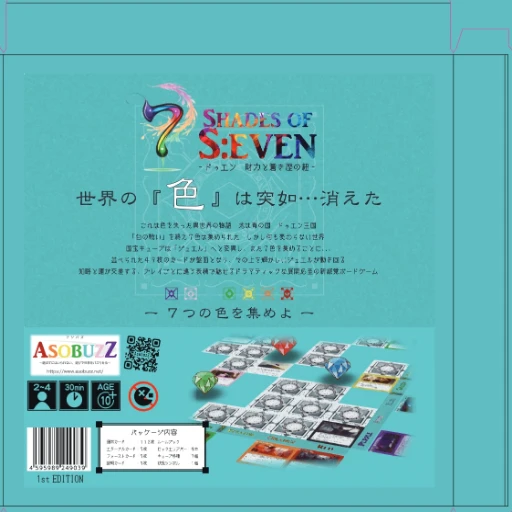
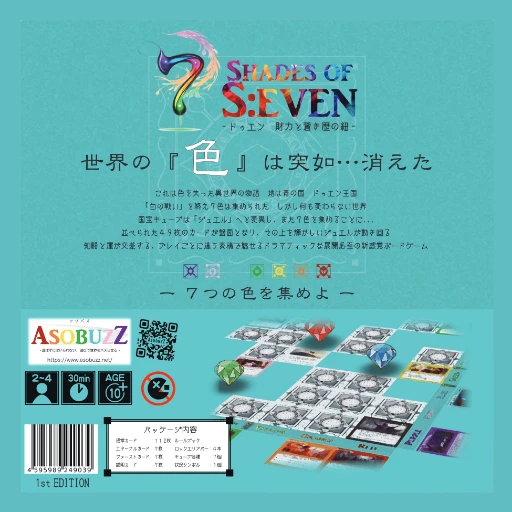
debug 2件（旧1stの箱裏の切り出し／CPU戦の設定を1画面に）（続き848）
#823 旧1stの箱裏が少しおかしい:
- 展開図から切り出す位置が**1つ外側**だった（面の枠＝型抜き線ごと切っていた）
  ⇒ 裏の絵のまわりに線と折り返しの白地が写り込み、中身も片寄っていた
- 🔴 目で読まずに**測った**: 行／列ごとに「地と違う画素」を数えると線の位置が出る
  身（裏）= x 813..2786 / y 816..2783（3600px の描画。正方形・中心 1799.5）
  4辺とも対称に出たので、読み違えていないことがその場で分かる
- 蓋と側面も同じ作法でそろえた（側面には折り返しの形が写っていた）
- 1st の面は「まぜる」の箱の材料でもあるので make-mixed-box.mjs を走らせ直した

#824 スクロールせずに選べるといいです（上から順に並べる必要はないのでは？）:
- .home-match-choice-details を grid の auto-fit（minmax 34rem）に
  🔴 画面の向きや端末では分けない。**札の中身の幅だけ**で決まる
     ⇒ 縮む端末でだけ2列になり、PC は1列のままで1pxも変わらない
  🔴 :not([hidden]) を必ず付ける（display:grid は [hidden] の display:none を打ち消す）
- ⚠ 段組み（column-width）は試してやめた。段の高さを均すので背の高い組があると
  かえって高くなる（実測: grid 0px に対して段組みは 62px はみ出した）
- 管理者の5組では3段になって 169px はみ出したので:
  「はじめる」と「戻る」を横に並べ（左右は CSS の order ＝ #746 の決まり。DOM と PC は不変）、
  すき間だけを詰めた（押す物の大きさ＝#822 で決めた値は触っていない）
  ⇒ 4組 401→317px・5組も 0px
- 🔴 撮って1つ見つけた: 「はじめる」が左に寄っていた（続き847 で書いた
  margin-left/right:auto を、同じ規則の後ろの margin: 一括指定が 0 に戻していた＝教訓9）

実測 scratchpad/_p848.mjs 22項目（NG 0・例外0・404 0）・対照5本つき。
回帰 _p847.mjs 17項目とも通る。npm run check 27本とも合格。
SQL・Edge Function の変更は無い＝再デプロイ不要。

diff --git a/src/changelog.js b/src/changelog.js
@@ -54,6 +54,7 @@ export const CHANGELOG = [
   {
     date: "2026-11-25",
     summary: [
+      "CPU戦の設定が、巻き取らずに1画面で選べるようになりました",
       "CPU戦の設定が、指で押しやすい大きさになりました",
       "エディションを選ぶ画面に、0th拡張と志炎者の絵が付きました",
       "エディションの箱が、左右のスワイプで指に付いてくるようになりました",
@@ -61,6 +62,7 @@ export const CHANGELOG = [
       "燃える演出のふちが、いびつな炎の形に戻りました",
     ],
     summaryEn: [
+      "The CPU match settings now fit on one screen without scrolling",
       "The CPU match settings are now comfortable to tap",
       "The edition chooser gained artwork for the 0th expansion and Shienja",
       "The edition chooser now follows your finger as you swipe",
@@ -68,6 +70,7 @@ export const CHANGELOG = [
       "The burning edge is ragged again, not a clean circle",
     ],
     items: [
+      "**CPU戦の設定が、巻き取らずに1画面で収まるようになりました。** 横長の端末では、強さ・人数・対戦ルール・山札が縦1列に積まれて画面に入り切らず、左右が大きく空いていました。いまは**横にも並べて**、「はじめる」と「戻る」も横に並べています。縦長の画面や PC では今までどおりです。",
       "**CPU戦の設定を、指で押せる大きさにしました。** 強さ・人数・対戦ルール・山札のボタンは**実画面で16px**しかなく（字は7px）、押し間違えやすい大きさでした。いまは**41〜53px**です。「はじめる」も、横いっぱいの平らな帯だったのを**幅を絞って浮かせた形**にしました（飾りの帯に見えていました）。",
       "**エディションを選ぶ画面に絵が増えました。** 「0th拡張」は箱が無い版なので**ブースターパックを3つ重ねた姿**に、「リメイク＋志炎者」は**リメイクの箱のまわりに志炎者の札**を広げた姿にしました。",
       "**エディションを選ぶ画面が、左右のスワイプで指に付いてくるようになりました。** それまでは払い終わった所で一気に次の箱へ飛んでいました。離すといちばん近い箱へ寄ります。",
@@ -75,6 +78,7 @@ export const CHANGELOG = [
       "HUERISE の画面から燃えて始まる時、ふちが**いびつな炎の形**になりました。端末によっては**きれいな円**で燃え広がっていて、紙が焼け落ちる感じが出ていませんでした。",
     ],
     itemsEn: [
+      "The CPU match settings now fit on one screen. On a wide, short screen the groups were stacked in a single column that overflowed, while the sides sat empty; they now sit side by side, and the start and back buttons share a row. Tall screens and desktops are unchanged.",
       "The CPU match settings are now comfortable to tap. The difficulty, player count, rule and deck buttons were only 16 real pixels tall with 7px text; they are now 41 to 53. The start button was a flat full-width band that read as decoration, and is now a narrower raised button.",
       "The edition chooser gained artwork: the 0th expansion, which was never sold in a box, now shows three booster packs stacked, and the remake-plus-Shienja set shows the remake box with its cards fanned around it.",
       "The edition chooser now follows your finger as you swipe, instead of jumping to the next box when you let go. It settles on the nearest box when you release.",
@@ -82,14 +86,25 @@ export const CHANGELOG = [
       "The burn that starts the game now has a ragged, flame-like edge on every device. On some phones it spread as a clean circle, which lost the feeling of paper burning away.",
     ],
     fixes: [
+      "1st EDITION の箱の裏に、印刷の型抜き線が写り込んでいたのを直しました。",
+      "CPU戦の設定の「はじめる」が左に寄っていたのを、真ん中に戻しました。",
       "食べすぎで隣のマスのカードを足元へ重ねる時、重なっているマスからは**1番上の1枚だけ**を取るようにしました。",
       "パックを開ける画面のいちばん上に出ていた、管理者向けの小さな文字を下へ移しました。",
     ],
     fixesEn: [
+      "The back of the 1st EDITION box no longer shows the printing die lines.",
+      "The start button in the CPU match settings is centred again.",
       "Overeating now takes only the top card from a stacked neighbouring cell.",
       "The small administrator-only diagnostic line on the pack screen moved to the bottom.",
     ],
     devItems: [
+      "🔴 #823「旧1stの箱裏が少しおかしいです！」。**展開図の切り出し位置が1つ外側だった**——面の枠（型抜き線）ごと切っていたので、裏の絵のまわりに線と折り返しの白地が写り込み、中身も片寄っていた。⇒ **入稿の .ai を描き直してから、線の位置を機械で測った**（行／列ごとに『地と違う画素』を数える）。身（底）の面は 3600px の描画で x 813..2786 / y 816..2783 ＝ちょうど正方形で、中心は 1799.5。そこから少し内側で切り直した。蓋と側面も同じ作法でそろえた（側面には折り返しの形が写っていた）。",
+      "⚠ **目で読まない**（続き766 の教訓）。線の位置は4辺とも対称に出たので、読み違えていないことがその場で分かる。⚠ 1st の面は「まぜる」の箱の材料でもあるので、`tools/make-mixed-box.mjs` を走らせ直した。",
+      "🔴 #824「スクロールせずに選べるといいです！**上から順に並べる必要はないのでは？左右に余白あるので！**」。設定の4〜5組が縦1列に積まれて入り切らず、左右は空いていた。⇒ `.home-match-choice-details` を **grid の auto-fit**（minmax 34rem）にした。札の幅は倍率で割ってあるので（#741・続き806）、**縮む端末ほど rem で見た中身が広くなり、そこでだけ2列になる**＝PC（46rem）は1列のままで1pxも変わらない。",
+      "🔴 `:not([hidden])` を必ず付ける——`display: grid` は `[hidden]` の `display: none` を**打ち消す**ので、付けないと2択の画面で畳んでいるはずの設定が出てしまう。実測でも両方向を見ている。",
+      "⚠ **段組み（column-width）は試して、やめた。** ブラウザは「段の高さがそろう」ように振り分けるので、背の高い組（対戦ルール）が1段に偏ると全体が高くなる（実測: grid 0px に対して段組みは 62px はみ出した）。行ごとに高さが決まる grid の方が、この中身では低く収まる。",
+      "⚠ それでも**管理者の5組**では3段になって 169px はみ出した。⇒ ①「はじめる」と「戻る」を**横に並べて1段ぶん縮める**（#746 の決まりどおり、左右は CSS の `order` で決める。DOM は今までどおりなので PC は縦のまま）②組の間・見出しの下・札の内側の余白を詰める。**詰めたのはすき間だけで、押す物の大きさ（#822 で決めた値）は触っていない。** 結果 4組 401→317px・5組も 0px。",
+      "🔴 撮って1つ見つけた: 「はじめる」が**左に寄っていた**。続き847 で幅を絞った時に `margin-left/right: auto` を書いたが、**同じ規則の後ろに在る `margin:` の一括指定が 0 に戻していた**（教訓9 そのもの）。数字では落ちない——幅も高さも影も合っていた。",
       "🔴 #813「HUERISEから燃える時、綺麗な円で燃えてっちゃいます。歪な炎な感じがないです」。正体は、いびつなふちを **feTurbulence + feDisplacementMap だけ**が作っていたこと——続き800 で入れた「遅い端末では乱流をあきらめる保険」が働くと、ふちが真円に戻る（当時のコメントにも「＝ふちは真円になるが、カクカクするよりはよい」と書いてあった）。⇒ **穴そのものを、はじめからギザギザの形（72点の path）で持つ**ようにした。フィルタが外れても形は残り、生きている時はその上にさらに細かい乱れが乗る。",
       "⚠ 形は**毎回同じ**（乱数を使わない）。うねりの周期を4つ重ねてあるので不自然にはならず、実測で同じ絵を出せる。振れ幅は割合なので、穴が大きくなるほどギザギザも大きくなる＝紙の燃え方と同じ。",
       "🔴 #811「箱の天地の表示がおかしいです」。側面の絵は **64x512 の縦長**、箱の天地の面は **横長**。コメントには「90度ねじって敷く」と書いてあったのに、**ねじる処理が無かった**（background-size と repeat-x を当てていただけ）⇒ 縦長の絵の**上の一片だけ**が横に繰り返され、箱の天地に知らない模様が並んでいた。CSS は背景画像を回せないので、**90度回した子**を1枚置く形にした。",
@@ -109,6 +124,13 @@ export const CHANGELOG = [
       "⚠ 実測14項目。触る端末では乱流を掛けない／**対照: PC では掛ける**／穴は72点のまま／ホームで覆いが立つ／**対照: 対局の画面では覆われない**（今までどおり作り直す）。⚠ 測り方を2つ間違えた: ①ヘッドレスは遅いので700ms待つと PC でも「遅い端末の保険」が働いて乱流が外れる（掛けた直後に読む）②`querySelector(\"g\")` は最初の <g> であって乱流を掛けた物とは限らない。",
     ],
     devItemsEn: [
+      "The 1st EDITION box back was cropped one boundary too far out, so the die lines and the white fold area around the printed panel came with it and the artwork sat off-centre. The source artwork was re-rendered and the line positions were measured rather than eyeballed, by counting pixels that differ from the background in each row and column. The printed panel is x 813 to 2786 and y 816 to 2783 in a 3600px render, exactly square and centred at 1799.5.",
+      "All four edges came out symmetric, which is itself evidence the reading is right. The lid and side were re-cut the same way; the side had a fold shape baked into it. The 1st faces are also the material for the mixed box, so that was re-baked too.",
+      "The CPU settings groups were stacked in one column that overflowed while the sides sat empty. The details block is now an auto-fit grid with a 34rem minimum, so the number of columns follows the panel content width alone. Because the panel width is divided by the stage scale, a scaled-down phone ends up wider in rem terms and gets two columns, while the desktop panel stays at one and does not change by a pixel.",
+      "The rule must be written with :not([hidden]), because display: grid overrides the display: none that [hidden] provides; without it the collapsed settings would appear in the two-choice dialog. Both directions are measured.",
+      "Multi-column layout was tried and rejected: the browser balances column heights, so a tall group landing in one column makes the whole block taller. Measured, the grid overflowed by 0px where columns overflowed by 62px.",
+      "With an administrator five groups appear, which became three rows and overflowed by 169px. The start and back buttons now share a row, with left-right order decided by a single CSS order rule so the DOM and the desktop stacking are untouched, and the gaps between groups and around the panel were tightened. Only gaps were reduced; the tap-target sizes are unchanged. Four groups went from 401 to 317px and five now fit.",
+      "A screenshot caught one more thing: the start button had drifted left, because a margin shorthand later in the same rule reset the auto side margins written for centring. No number caught it; the width, height and shadow were all correct.",
       "The ragged burn edge was produced only by the turbulence filter, which a slow-device safeguard removes, leaving a perfect circle. The hole itself is now a 72-point jagged path, so the shape survives without the filter and the filter only adds finer detail on top.",
       "The shape is deterministic rather than random, so the same picture can be measured, and its wobble is proportional, so it grows with the hole.",
       "The box top and bottom faces showed a strip of artwork repeated sideways. The side artwork is a tall strip and the comment said it was rotated a quarter turn for those faces, but no rotation was ever applied. A rotated child element now carries it.",

diff --git a/src/style.css b/src/style.css
@@ -17587,6 +17587,27 @@ body.is-phone-device .home-screen-cf-cta { font-size: 0.72rem; }
   border-color: rgba(var(--so7-accent), 0.7);
   color: #06202e;
 }
+/* 🔴【#824・続き848】報告「スクロールせずに選べるといいです！**上から順に並べる必要はないのでは？
+   左右に余白あるので！**」。横長の端末（932x430）では、設定の4〜5組が縦1列に積まれて
+   **画面に入り切らず巻き取りが要った**のに、左右は空いていた。
+   ⇒ **組を横にも並べる。** 画面の向きや端末では分けず、**札の中身の幅だけ**で決める
+     （`auto-fit` が入る数を決める）。
+   ⚠ 札の幅は倍率で割ってあるので（#741・続き806）、縮む端末ほど **rem で見た中身が広くなる**
+     ＝そこでだけ2列になり、**PC（46rem）では1列のまま＝今までと1pxも変わらない**。
+   🔴 `:not([hidden])` を必ず付ける。`display: grid` は `[hidden]` の `display: none` を
+     **打ち消してしまう**ので、付けないと**2択の画面で畳んでいるはずの設定が出てしまう**。
+   ⚠ 行の間は各組の `margin-top` が受け持つので、すき間は**列だけ**に入れる。 */
+.home-match-choice-details:not([hidden]) {
+  /* ⚠ **段組み（column-width）は試して、やめた。** ブラウザは「段の高さがそろう」ように
+     振り分けるので、背の高い組（対戦ルール）が1段に偏ると**全体が高くなる**
+     （実測: grid 0px に対して段組みは 62px はみ出した）。行ごとに高さが決まる grid の方が、
+     この中身では低く収まる。 */
+  display: grid;
+  grid-template-columns: repeat(auto-fit, minmax(34rem, 1fr));
+  gap: 0 2rem;
+  align-items: start;
+}
+
 /* ライトテーマ */
 body.theme-light #home-match-choice {
   background: rgba(60, 51, 38, 0.5);
@@ -26516,13 +26537,14 @@ body.theme-light #card-pack-back {
 .home-match-choice-start {
   display: block;
   width: min(100%, 22rem);
-  margin-left: auto;
-  margin-right: auto;
   box-sizing: border-box;
   /* 🔴【続き720・ユーザー指摘「はじめる と その上のエディション選択が近すぎない？？ｗ」】
      ⇒ 上に間を空ける（設定の列と「始める」は別の種類のものなので、くっついていると
-       設定の一部に見える）。下の ::before の細い罫と対で効く。 */
-  margin: 1.6rem 0 0.6rem;
+       設定の一部に見える）。下の ::before の細い罫と対で効く。
+     🔴【続き848】**左右は `auto`（＝中央）**。続き847 で幅を絞った時に
+     `margin-left/right: auto` を書いたが、**この一括指定が後ろに在って 0 に戻していた**
+     ので、ボタンだけ左に寄っていた（撮って分かった＝教訓9 そのもの）。 */
+  margin: 1.6rem auto 0.6rem;
   padding: 0.85rem 1.1rem;
   border: 1px solid rgba(233, 199, 122, 0.95);
   border-radius: 999px;
@@ -26554,6 +26576,51 @@ body.theme-light #card-pack-back {
    そのぶん小さくなる（#453・#569・#721・#760 と同じ家族）。
    ⚠ 枠は元から `overflow-y: auto` なので、大きくして入り切らなくなっても巻き取れる。
    ⚠ 横に並ぶ列は**折り返せる**ようにする（「自分にも持ち時間」のような長い札が在るため）。 */
+/* 🔴【#824・続き848】指で押す大きさにしたぶん、組が縦に積まれると入り切らない
+   （管理者には**エディションを足して5組**出る）。⇒ **札の幅の上限（46rem）を外す**。
+   横長の端末では左右が大きく空いていたので、そこを使えば3列に並んで2段で収まる。
+   ⚠ 外すのは上限だけ——`94vw` と `100% - 2rem` の歯止めはそのまま（画面からはみ出さない）。
+   ⚠ 縦長の端末では `94vw` の方が小さくなるので、今までどおり1列に落ちる（auto-fit が決める）。 */
+body.is-phone-device .home-match-choice-panel,
+body.is-tablet-device .home-match-choice-panel {
+  width: min(calc(94vw / var(--stage-scale, 1)), calc(100% - 2rem));
+}
+/* 🔴 余白も詰める。指で押す大きさにしたぶん、1.4rem の間が段ごとに積もると効く。
+   ⚠ 詰めるのは**すき間だけ**（押す物の大きさは #822 で決めた値のまま触らない）。 */
+body.is-phone-device .home-match-choice-panel,
+body.is-tablet-device .home-match-choice-panel {
+  padding: 1.4rem 1.6rem 1.2rem;
+}
+body.is-phone-device .home-match-choice-title,
+body.is-tablet-device .home-match-choice-title {
+  margin-bottom: 0.6rem;
+}
+body.is-phone-device .home-match-choice-details:not([hidden]) > .home-match-choice-difficulty,
+body.is-tablet-device .home-match-choice-details:not([hidden]) > .home-match-choice-difficulty {
+  margin-top: 0.7rem;
+}
+/* 🔴 「はじめる」と「戻る」を**横に並べて1段ぶん縮める**。
+   ⚠ 左右は #746 の決まり（やめる側が左・進む側が右）。DOM は はじめる → 戻る のままで、
+     `order` で入れ替える（並べ替えを DOM でやると、片方しか出ない形で取りこぼす）。
+   ⚠ PC では箱がただの入れ物のまま＝今までどおり縦に積まれる。 */
+body.is-phone-device .home-match-choice-foot,
+body.is-tablet-device .home-match-choice-foot {
+  display: flex;
+  align-items: center;
+  justify-content: center;
+  gap: 1.6rem;
+  margin-top: 1.2rem;
+}
+body.is-phone-device .home-match-choice-foot .home-match-choice-cancel,
+body.is-tablet-device .home-match-choice-foot .home-match-choice-cancel {
+  order: -1;
+  margin-top: 0;
+}
+body.is-phone-device .home-match-choice-foot .home-match-choice-start,
+body.is-tablet-device .home-match-choice-foot .home-match-choice-start {
+  margin: 0;
+  width: min(100%, 26rem);
+}
 body.is-phone-device .home-match-choice-segment,
 body.is-tablet-device .home-match-choice-segment {
   flex-wrap: wrap;

diff --git a/src/home-screen.js b/src/home-screen.js
@@ -743,6 +743,14 @@ function openMatchChoiceModal(opts = {}) {
   cancel.addEventListener("click", closeMatchChoiceModal);
   panel.appendChild(details);
   refreshDetailsToggle(); // 文言と「設定を変えています」の1行を、開く前に一度そろえる
+  // 🔴【#824・続き848】「はじめる」と「戻る」を1つの箱に入れる。
+  //   PC では今までどおり縦に積まれる（箱はただの入れ物）が、**横長の端末では
+  //   横に並べて1段ぶん縮める**（style.css の `.home-match-choice-foot`）。
+  //   ⚠ DOM の順は**今までどおり はじめる → 戻る**（縦に積まれる PC の見え方を変えない）。
+  //     横に並べた時の左右（#746: やめる側が左・進む側が右）は **CSS の `order` 1か所**で
+  //     決める——並べ替えを DOM でやると、片方が出ない形（2択の画面）で取りこぼす。
+  const foot = document.createElement("div");
+  foot.className = "home-match-choice-foot";
   // 【#647 の直し】CPU だけの形では、ここに「はじめる」を置く（2択の代わり）。
   // ⚠ 二度押しで2回始まらないように、押したら無効にする。
   if (cpuだけ) {
@@ -756,9 +764,10 @@ function openMatchChoiceModal(opts = {}) {
       closeMatchChoiceModal();
       await startCpuBattleFromHome();
     });
-    panel.appendChild(start);
+    foot.appendChild(start);
   }
-  panel.appendChild(cancel);
+  foot.appendChild(cancel);
+  panel.appendChild(foot);
 
   // 背景クリックでも閉じる（パネル内クリックは伝播させない）。
   back.addEventListener("click", closeMatchChoiceModal);

diff --git a/src/handled-bug-reports.js b/src/handled-bug-reports.js
@@ -97,6 +97,9 @@ export const HANDLED_BUG_REPORT_IDS = new Set([
   820, // はじめるボタンが装飾の帯に見える（幅を絞って浮かせた）
   821, // スワイプが指に付いてこない（小数の位置で追従し、離した所で寄せる）
   822, // 設定の各ボタンが小さい（実測16px → 41〜53px）
+  // 2026-11-25（続き848）。
+  823, // 旧1stの箱裏に型抜き線が写っていた（展開図の切り出し位置を測り直した）
+  824, // CPU戦の設定を巻き取らずに選べるように（横長では2列・足を横並びに）
   // 2026-11-12（続き694・695）で直した分。🔴 直したらその場で足す（続き672・678・691 で3回
   //   取りこぼして、管理者ダッシュボードの「未対処」が実際より多く出ていた）。
   582, // フェニックスが撃てなくなっていた（続き694）

diff --git a/src/changelog-signature.js b/src/changelog-signature.js
@@ -18,7 +18,7 @@
 // 一般に見せる回＝`items` か `fixes` が1件以上ある回（管理者だけの回は数えない。
 // 管理者かどうかで署名を変えないのは、ログインの読み込みが終わるまで判定が false を返すため
 // ——混ぜると起動直後だけ NEW が付いたり消えたりする＝続き484 の経緯）。
-export const CHANGELOG_SIGNATURE = "2026-11-25|7|108";
+export const CHANGELOG_SIGNATURE = "2026-11-25|10|108";
 
 const CHANGELOG_READ_KEY = "so7-changelog-read";
 

diff --git a/src/app-version.js b/src/app-version.js
@@ -1,3 +1,3 @@
 // 自動生成（.git/hooks/pre-commit）。デプロイのたびに更新される「今実行しているコード」の
 // バージョン。version.json と必ず同じ値になる。update-checker.js が使う基準値。
-export const APP_VERSION = "20261125-000232";
+export const APP_VERSION = "20261125-081552";

diff --git a/CLAUDE.md b/CLAUDE.md
@@ -7235,3 +7235,82 @@ automatically」と出る。押す前に**流す中身の指紋が GitHub と一
   その分は軽くなっているはず。**実機で確かめてほしい。**
 - 🔴 **debug の残り22件**（墜落の家族14件・#797 #798 #805 #808）は続き845 のまま。
 - ⚠ **実機では見ていない**（ヘッドレスの実測と撮った絵まで）。
+
+### 2026-11-25（続き848）：旧1stの箱裏は**切り出し位置が1つ外側**だった（#823）／CPU戦の設定を1画面に（#824）
+
+ユーザー指示「**debug確認**」。新着2件、**2件とも入れた**。
+
+#### 🔴 ① #823「旧1stの箱裏が少しおかしいです！」── 面の枠ごと切っていた
+
+展開図（入稿の .ai）から切り出す時、**面の枠（型抜き線）の外側**で切っていた。
+⇒ 裏の絵のまわりに線と折り返しの白地が写り込み、中身も片寄っていた。
+
+🔴 **目で読まずに測った**（続き766 の教訓）。行／列ごとに「地と違う画素」を数えると、
+線の位置がそのまま出る:
+
+| | 3600px で描いた時の位置 |
+|---|---|
+| 身（裏） | x **813..2786** ／ y **816..2783**（＝正方形・中心 1799.5） |
+| 蓋（表） | x 791..2808 ／ y 794..2805 |
+
+4辺とも**対称に出た**ので、読み違えていないことがその場で分かる。そこから少し内側で切り直した。
+⚠ 蓋と側面も同じ作法でそろえた（側面には**折り返しの形**が写っていた）。
+⚠ 1st の面は「まぜる」の箱の材料でもあるので、`tools/make-mixed-box.mjs` を走らせ直した。
+
+#### 🔴 ② #824「スクロールせずに選べるといいです！上から順に並べる必要はないのでは？」
+
+設定の4〜5組が縦1列に積まれて画面に入り切らず、**左右は空いていた**。
+⇒ `.home-match-choice-details` を **grid の auto-fit**（minmax 34rem）にした。
+
+🔴 **画面の向きや端末では分けない。札の中身の幅だけで決まる。** 札の幅は倍率で割ってあるので
+（#741・続き806）、**縮む端末ほど rem で見た中身が広くなり、そこでだけ2列になる**
+＝PC（46rem）は1列のままで**1pxも変わらない**。
+
+🔴 **`:not([hidden])` を必ず付ける。** `display: grid` は `[hidden]` の
+`display: none` を**打ち消す**ので、付けないと**2択の画面で畳んでいるはずの設定が出る**。
+実測でも両方向を見ている。
+
+⚠ **段組み（`column-width`）は試して、やめた。** ブラウザは「段の高さがそろう」ように
+振り分けるので、背の高い組（対戦ルール）が1段に偏ると**全体が高くなる**
+（実測: grid 0px に対して段組みは **62px はみ出した**）。行ごとに高さが決まる grid の方が、
+この中身では低く収まる。**「均す」より「行で切る」方が低いことがある。**
+
+#### ⚠ ③ それでも管理者の5組では入らなかった
+
+管理者には**エディションを足して5組**出る ⇒ 3段になって **169px はみ出した**。
+
+| 直したこと | |
+|---|---|
+| 「はじめる」と「戻る」を**横に並べる** | 1段ぶん縮む。左右は #746 の決まり（やめる側が左）。**DOM は今までどおり**で、入れ替えは CSS の `order` 1か所 ⇒ PC は縦のまま |
+| 組の間・見出しの下・札の内側の余白を詰める | **詰めたのはすき間だけ。押す物の大きさ（#822 で決めた値）は触っていない** |
+
+結果: 4組 **401 → 317px**／**5組も 0px**（巻き取り無し）。
+
+#### 🔴 ④ 撮って1つ見つけた: 「はじめる」が左に寄っていた
+
+続き847 で幅を絞った時に `margin-left/right: auto` を書いたが、**同じ規則の後ろに在る**
+`margin:` **の一括指定が 0 に戻していた**（教訓9 そのもの）。
+🔴 **数字では落ちなかった**——幅も高さも影も合っていた。**撮らなければ見つからない。**
+
+#### 実測（`scratchpad/_p848.mjs` **22項目**・NG 0・例外0・404 0）
+
+箱: 裏に型抜き線が無い／**対照: 直す前は本当に写っていた**（0しか出ない検査にしない）／
+**対照: 旧0thの裏（元から正しい方）も同じ物差しで合格する**／側面から折り返しが消えた／面の大きさは今までどおり。
+設定: 2列になる・巻き取らない・「はじめる」まで見えている・横並び・戻るが左・足が真ん中・
+見出しが帯に隠れていない（**重なりの列で見る**）・**管理者の5組でも収まる**／
+**対照: PC は1列・縦積み・今までどおり**／回帰: 畳んだら `display:none` のまま。
+🔴 **撮って確かめた**（`scratchpad/_shot848/`）。
+
+⚠ 実測の数え方を1つ間違えた: 「見出しが帯に隠れていないか」を `#option-area` の下端と
+比べて落ちた。**あれは画面いっぱいの入れ物**なので、その下端を基準にすると必ず落ちる
+⇒ `elementsFromPoint` で**本当に最前面か**を見る形に直した（教訓3・4 の家族）。
+
+**検査**: `npm run check` 27本とも合格（終了コード0）。
+**SQL・Edge Function の変更は無い＝再デプロイ不要。**
+
+#### ⚠ 申し送り
+
+- ⚠ **実機では見ていない**（ヘッドレスの実測と撮った絵まで）。**#824 は指で見てほしい**
+  ——2列になった時に押し間違えが増えないか、「はじめる」と「戻る」が近すぎないか。
+- ⓘ 管理者の5組は**組を1つ複製して**測った（本物のエディションの組より背が高いので、安全側）。
+- 🔴 **debug の残り22件**（墜落の家族14件・#797 #798 #805 #808）は続き845 のまま。
